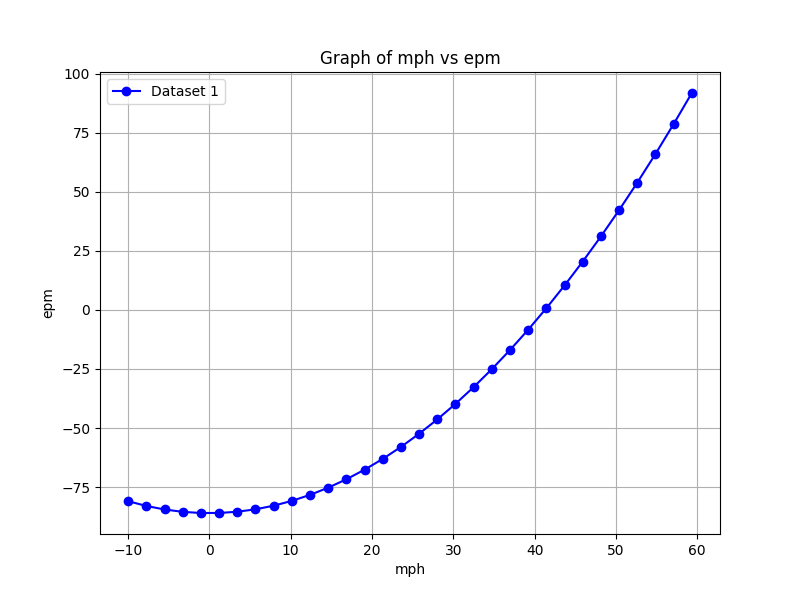
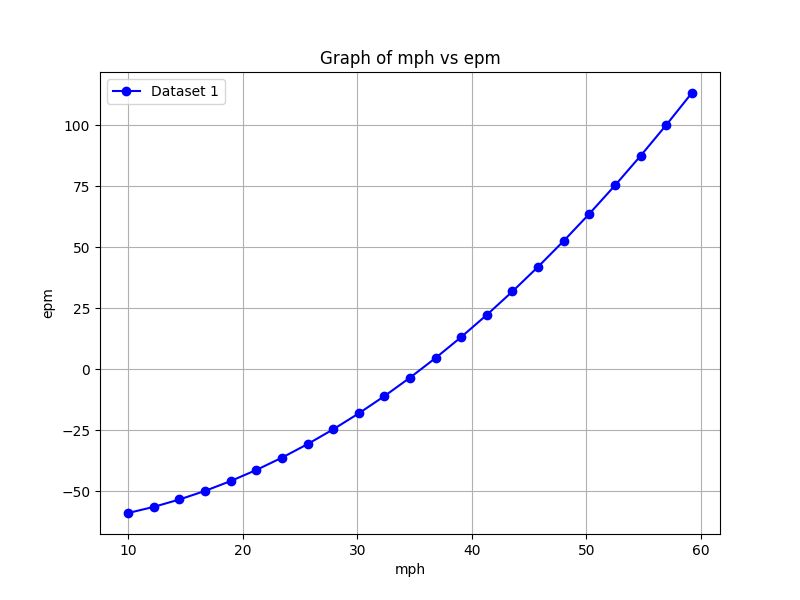
converting from power input to torque input

diff --git a/src/engine/nodes.py b/src/engine/nodes.py
@@ -4,23 +4,23 @@ from ..utils.constants import *
 
 
 class Segment(Displacement):  # Meters
-    def __init__(self, p1: Coordinate, p2: Coordinate, id: int = 0, speed_limit: Speed = Speed(0),  ghi: float = 0, wind: Velocity = ZERO_VEC, v_eff: Speed = Speed(0), p_eff: float = 0):
+    def __init__(self, p1: Coordinate, p2: Coordinate, id: int = 0, speed_limit: Speed = Speed(0),  ghi: float = 0, wind: Velocity = ZERO_VEC, v_eff: Speed = Speed(0), t_eff: float = 0):
         self.id = id
         super().__init__(p1, p2)
         self.displacement = Displacement(p1, p2)
         self.v_eff = Velocity(self.displacement.unit_vector(), v_eff)
-        self.p_eff = p_eff
+        self.t_eff = t_eff
         self.ghi = ghi
         self.wind = wind
         self.speed_limit = speed_limit
         self.tdist = self.dist
 
     def __str__(self):
-        return f"Total Distance: {self.tdist} | V eff: {self.v_eff.kmph} | P eff: {self.p_eff}"
+        return f"Total Distance: {self.tdist} | V eff: {self.v_eff.kmph} | P eff: {self.t_eff}"
 
 class StateNode:
-    def __init__(self, power: float = 0, Fb: float = 0, velocity: Velocity = ZERO_VELOCITY):
-        self.power = power
+    def __init__(self, torque: float = 0, Fb: float = 0, velocity: Velocity = ZERO_VELOCITY):
+        self.torque = torque
         self.Fb = Fb
         self.velocity = velocity
         self.Fm = 0
@@ -30,7 +30,7 @@ class StateNode:
         #     self.Fm = 50
         # else:
         #     self.Fm = self.power / velocity.mag
-        self.Fm = self.power * wheel_radius
+        self.Fm = self.torque * wheel_radius
 
     def Fd_calc(self, velocity: Velocity, wind: Velocity = ZERO_VELOCITY):
         self.Fd = 0.5 * air_density * coef_drag * cross_section * ((velocity - wind).mag ** 2)
@@ -49,8 +49,8 @@ class StateNode:
 
 
 class TimeNode(StateNode):
-    def __init__(self, time: float = 0, dist: float = 0, velocity: Velocity = ZERO_VELOCITY, acc: float = 0, power: float = 0, Fb: float = 0, soc: float = 0):
-        super().__init__(power, Fb)
+    def __init__(self, time: float = 0, dist: float = 0, velocity: Velocity = ZERO_VELOCITY, acc: float = 0, torque: float = 0, Fb: float = 0, soc: float = 0):
+        super().__init__(torque, Fb)
         self.time = time
         self.dist = dist
         self.velocity = velocity
@@ -90,11 +90,12 @@ class VelocityNode(StateNode):
         self.Frr_calc(segment)
         self.solar_energy_cal()
         self.Fm = self.Fg + self.Frr + self.Fd
-        self.power = self.Fm * self.velocity.mps
+        self.P_mech = self.Fm * self.velocity.mps
         self.torque = self.Fm * wheel_radius
-        if self.power == 0:
+        self.P_bat = self.P_mech
+        if self.P_bat == 0:
             raise ValueError(f"Power is zero for velocity {self.velocity.mps:.2f} m/s.")
-        self.epm = self.power / (self.velocity.mps) #- self.solar / self.velocity.mps
+        self.epm = self.P_bat / (self.velocity.mps) #- self.solar / self.velocity.mps
 
 if __name__ == "__main__":
     def test_segment():

diff --git a/src/engine/interval_simulator.py b/src/engine/interval_simulator.py
@@ -19,7 +19,7 @@ class SSInterval:
         self.total_dist = self.segments[-1].tdist
 
     def simulate_interval(self, TIME_STEP: float = 0.1):
-        self.time_nodes = [TimeNode(power=P_STALL, velocity=self.startSpeed, soc= 100)]
+        self.time_nodes = [TimeNode(torque=max_torque, velocity=self.startSpeed, soc= 100)]
         self.simulate_braking(-TIME_STEP)
         print(f"{len(self.brakingNodes)}")
         print("Braking Calculations End Here\n")
@@ -36,10 +36,11 @@ class SSInterval:
                     current_TimeNode.Fb = BRAKE
 
                 elif initial_TimeNode.velocity.mag < segment.v_eff.mag:
-                    current_TimeNode.power = P_CONST
+                    max_torque = 1000
+                    current_TimeNode.torque = max_torque
 
                 else:
-                    current_TimeNode.power = segment.p_eff
+                    current_TimeNode.torque = segment.t_eff
 
                 current_TimeNode.solve_TimeNode(initial_TimeNode, segment, TIME_STEP)
                 self.time_nodes.append(current_TimeNode)

diff --git a/src/database/parse_route_table.py b/src/database/parse_route_table.py
@@ -18,7 +18,7 @@ def parse_route_table(placemark, stops: bool = False):
         next_coord = Coordinate(rows[i+1]["lat"], rows[i+1]["lon"], rows[i+1]["elevation"])
         # wind = Velocity(Vec(checkpoint["wind_dir"]), Speed(kmph=checkpoint["wind_speed"]))
         wind = Velocity()
-        segments.append(Segment(current_coord, next_coord, checkpoint["id"],Speed(kmph=checkpoint["speed_limit"]), checkpoint["ghi"], wind, Speed(kmph= checkpoint["speed"]), checkpoint["power"]))
+        segments.append(Segment(current_coord, next_coord, checkpoint["id"],Speed(kmph=checkpoint["speed_limit"]), checkpoint["ghi"], wind, Speed(kmph= checkpoint["speed"]), checkpoint["torque"]))
         if rows[i+1]["stop_type"] and stops:
             ssintervals.append(SSInterval(segments))
             segments = []

diff --git a/src/database/update_velocity.py b/src/database/update_velocity.py
@@ -33,7 +33,7 @@ def upload_best_velocity(nodes, segment_id, id):
         db = sqlite3.connect('data.sqlite')
         cursor = db.cursor()
         # add power here
-        cursor.execute('UPDATE route_data SET speed = ?, power = ? WHERE segment_id = ? AND id = ?', (best_node.velocity.kmph, best_node.torque,segment_id, id))
+        cursor.execute('UPDATE route_data SET speed = ?, torque = ? WHERE segment_id = ? AND id = ?', (best_node.velocity.kmph, best_node.torque,segment_id, id))
 
         db.commit()
         db.close()

diff --git a/src/engine/velocity_simulator.py b/src/engine/velocity_simulator.py
@@ -19,9 +19,9 @@ def sim_velocity_an_shi(segment, speed_lim: Speed = Speed(mph=60)):
 if __name__ == "__main__":
     from .kinematics import Coordinate, Displacement
     from .nodes import Segment
-    p0 = Coordinate(-94.417077, 39.092185, 10)
+    p0 = Coordinate(39.092185, -94.417077, 10)
     # print(p1)
-    p1 = Coordinate(-94.423673, 39.092344, 0)
+    p1 = Coordinate(39.092344, -94.423673, 0)
     # print(p3)
     d1 = Displacement(p0, p1)
     # d2 = Displacement(p1, p2)

diff --git a/src/database/init_route_table.py b/src/database/init_route_table.py
@@ -5,7 +5,6 @@ import os
 from .parse_route import parse_ASC2024, parse_FSGP_2025
 import time
 from .traffic import overpass_batch_request, generate_boundary, priority_stops, regroup
-from ..engine.kinematics import Coordinate, Displacement
 from ..engine.nodes import Segment
 
 BATCH_SIZE = 50
